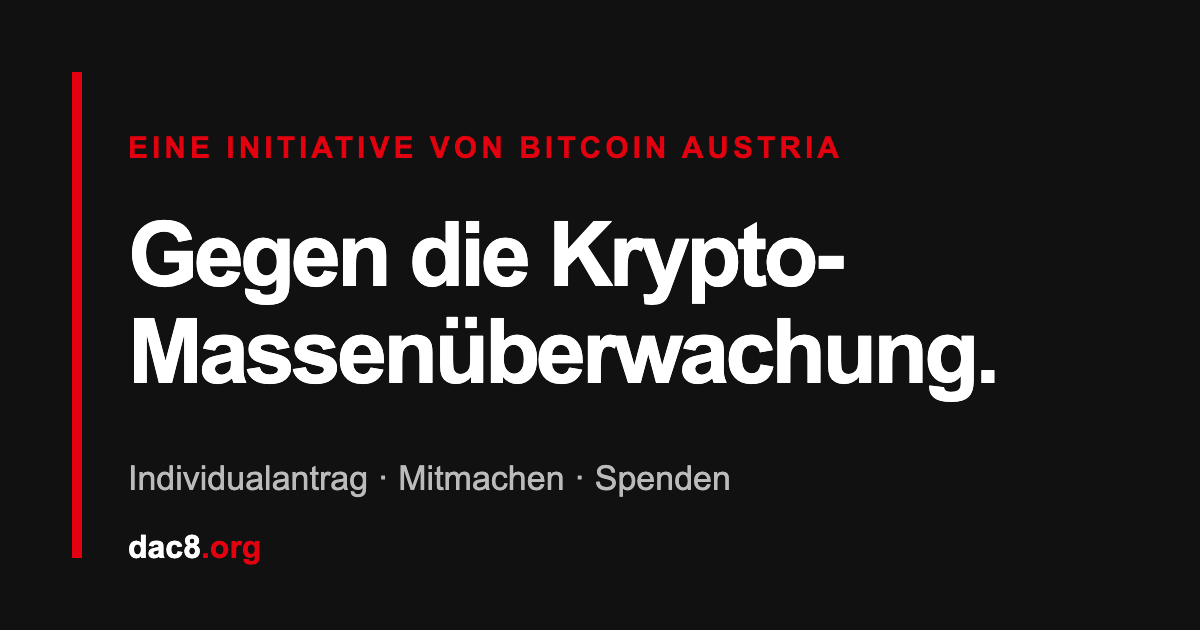
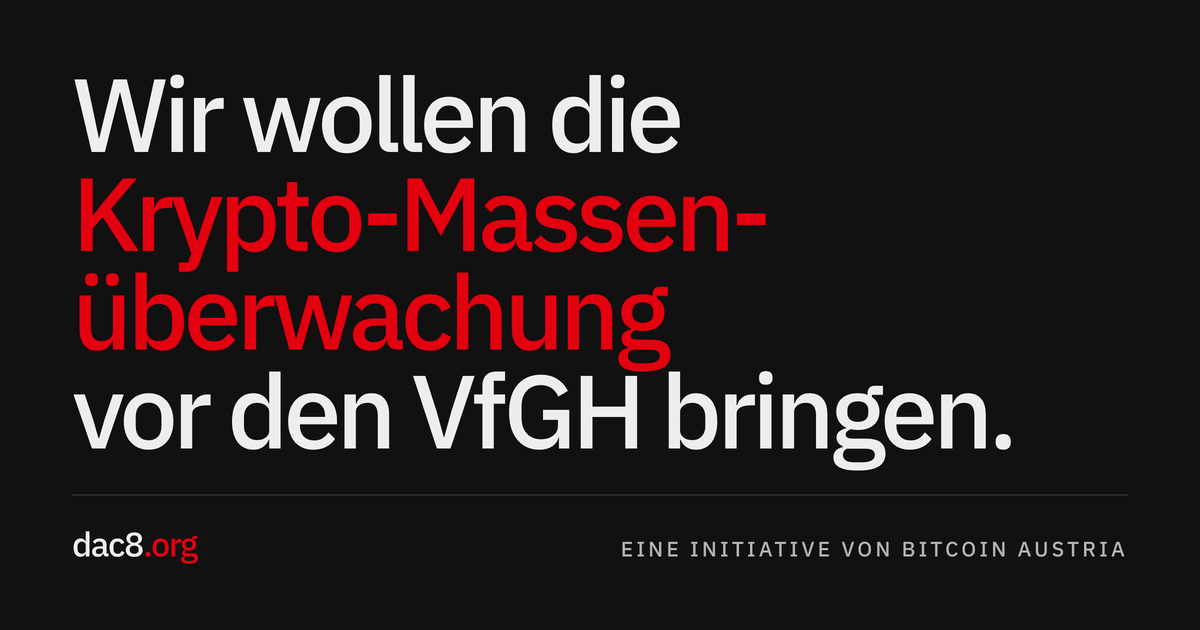
Redraw the link preview image and make it reproducible
The old image was set in Arial with the accent colour on the eyebrow,
which is the treatment the site just moved away from. It is now set in
IBM Plex Sans, the actual site face, in the exact theme values, with the
red carried by a span inside the headline the way h1 does it.

It carries the homepage headline verbatim. The previous subline listed
"Individualantrag · Mitmachen · Spenden", which would read as a false
promise the moment the application is filed or decided. Nothing on the
image can go out of date now: no year, no procedural status, no list.

The sentence breaks over four lines at the hyphen in
Krypto-Massen-/überwachung. Over three lines the longest word capped the
type at 86px and left half the canvas empty. The attribution moved from
an eyebrow into the footer, which frees the height the sentence needs
and fills a footer that otherwise held a single item.

The stale SVG source is replaced by the HTML that actually produces the
file, with the render command in a comment. Rendered at 2x and scaled
down, which is what keeps the type edges clean. Verified that the source
reproduces the committed PNG byte for byte.

Declares og:image type, width and height so scrapers pick the large card
on first fetch instead of falling back to the small one.

Changed region(s): [[0.0617, 0.1206, 0.8633, 0.9048], [0.5242, 0.8444, 0.925, 0.9048]]

diff --git a/public/static/opengraph-source.html b/public/static/opengraph-source.html
@@ -1,0 +1,82 @@
+<!--
+  Quelle für /static/opengraph-image.png (1200x630).
+  Neu erzeugen:
+    chrome-headless-shell --headless --disable-gpu --hide-scrollbars \
+      --force-device-scale-factor=2 --window-size=1200,630 \
+      --screenshot=og.png file://$PWD/public/static/opengraph-source.html
+    node -e "require('sharp')('og.png').resize(1200,630,{kernel:'lanczos3'})
+      .png({compressionLevel:9,palette:true,quality:92})
+      .toFile('public/static/opengraph-image.png')"
+  In 2x rendern und herunterrechnen, das glättet die Kanten der Schrift.
+-->
+<!doctype html>
+<meta charset="utf-8">
+<style>
+  @font-face {
+    font-family: Plex;
+    src: url("../../src/assets/fonts/IBMPlexSans-VariableFont_wdth%2Cwght.woff2")
+      format("woff2-variations");
+    font-weight: 100 700;
+    font-display: block;
+  }
+  * {
+    margin: 0;
+    padding: 0;
+    box-sizing: border-box;
+  }
+  html,
+  body {
+    width: 1200px;
+    height: 630px;
+  }
+  body {
+    background: #111;
+    color: #eee;
+    font-family: Plex, sans-serif;
+    display: flex;
+    flex-direction: column;
+    justify-content: space-between;
+    padding: 64px 72px;
+    -webkit-font-smoothing: antialiased;
+  }
+  h1 {
+    font-size: 104px;
+    font-weight: 500;
+    line-height: 0.95;
+    letter-spacing: -0.048em;
+  }
+  h1 span {
+    color: #e3000f;
+  }
+  footer {
+    display: flex;
+    align-items: baseline;
+    justify-content: space-between;
+    border-top: 1px solid #3a3a3a;
+    padding-top: 26px;
+  }
+  .mark {
+    font-size: 34px;
+    font-weight: 500;
+    letter-spacing: -0.04em;
+  }
+  .mark i {
+    color: #e3000f;
+    font-style: normal;
+  }
+  .by {
+    font-size: 21px;
+    font-weight: 500;
+    letter-spacing: 0.15em;
+    text-transform: uppercase;
+    color: #b4b4b4;
+  }
+</style>
+<h1>
+  Wir wollen die<br><span>Krypto-Massen-<br>überwachung</span><br>vor den VfGH
+  bringen.
+</h1>
+<footer>
+  <p class="mark">dac8<i>.org</i></p>
+  <p class="by">Eine Initiative von Bitcoin Austria</p>
+</footer>
